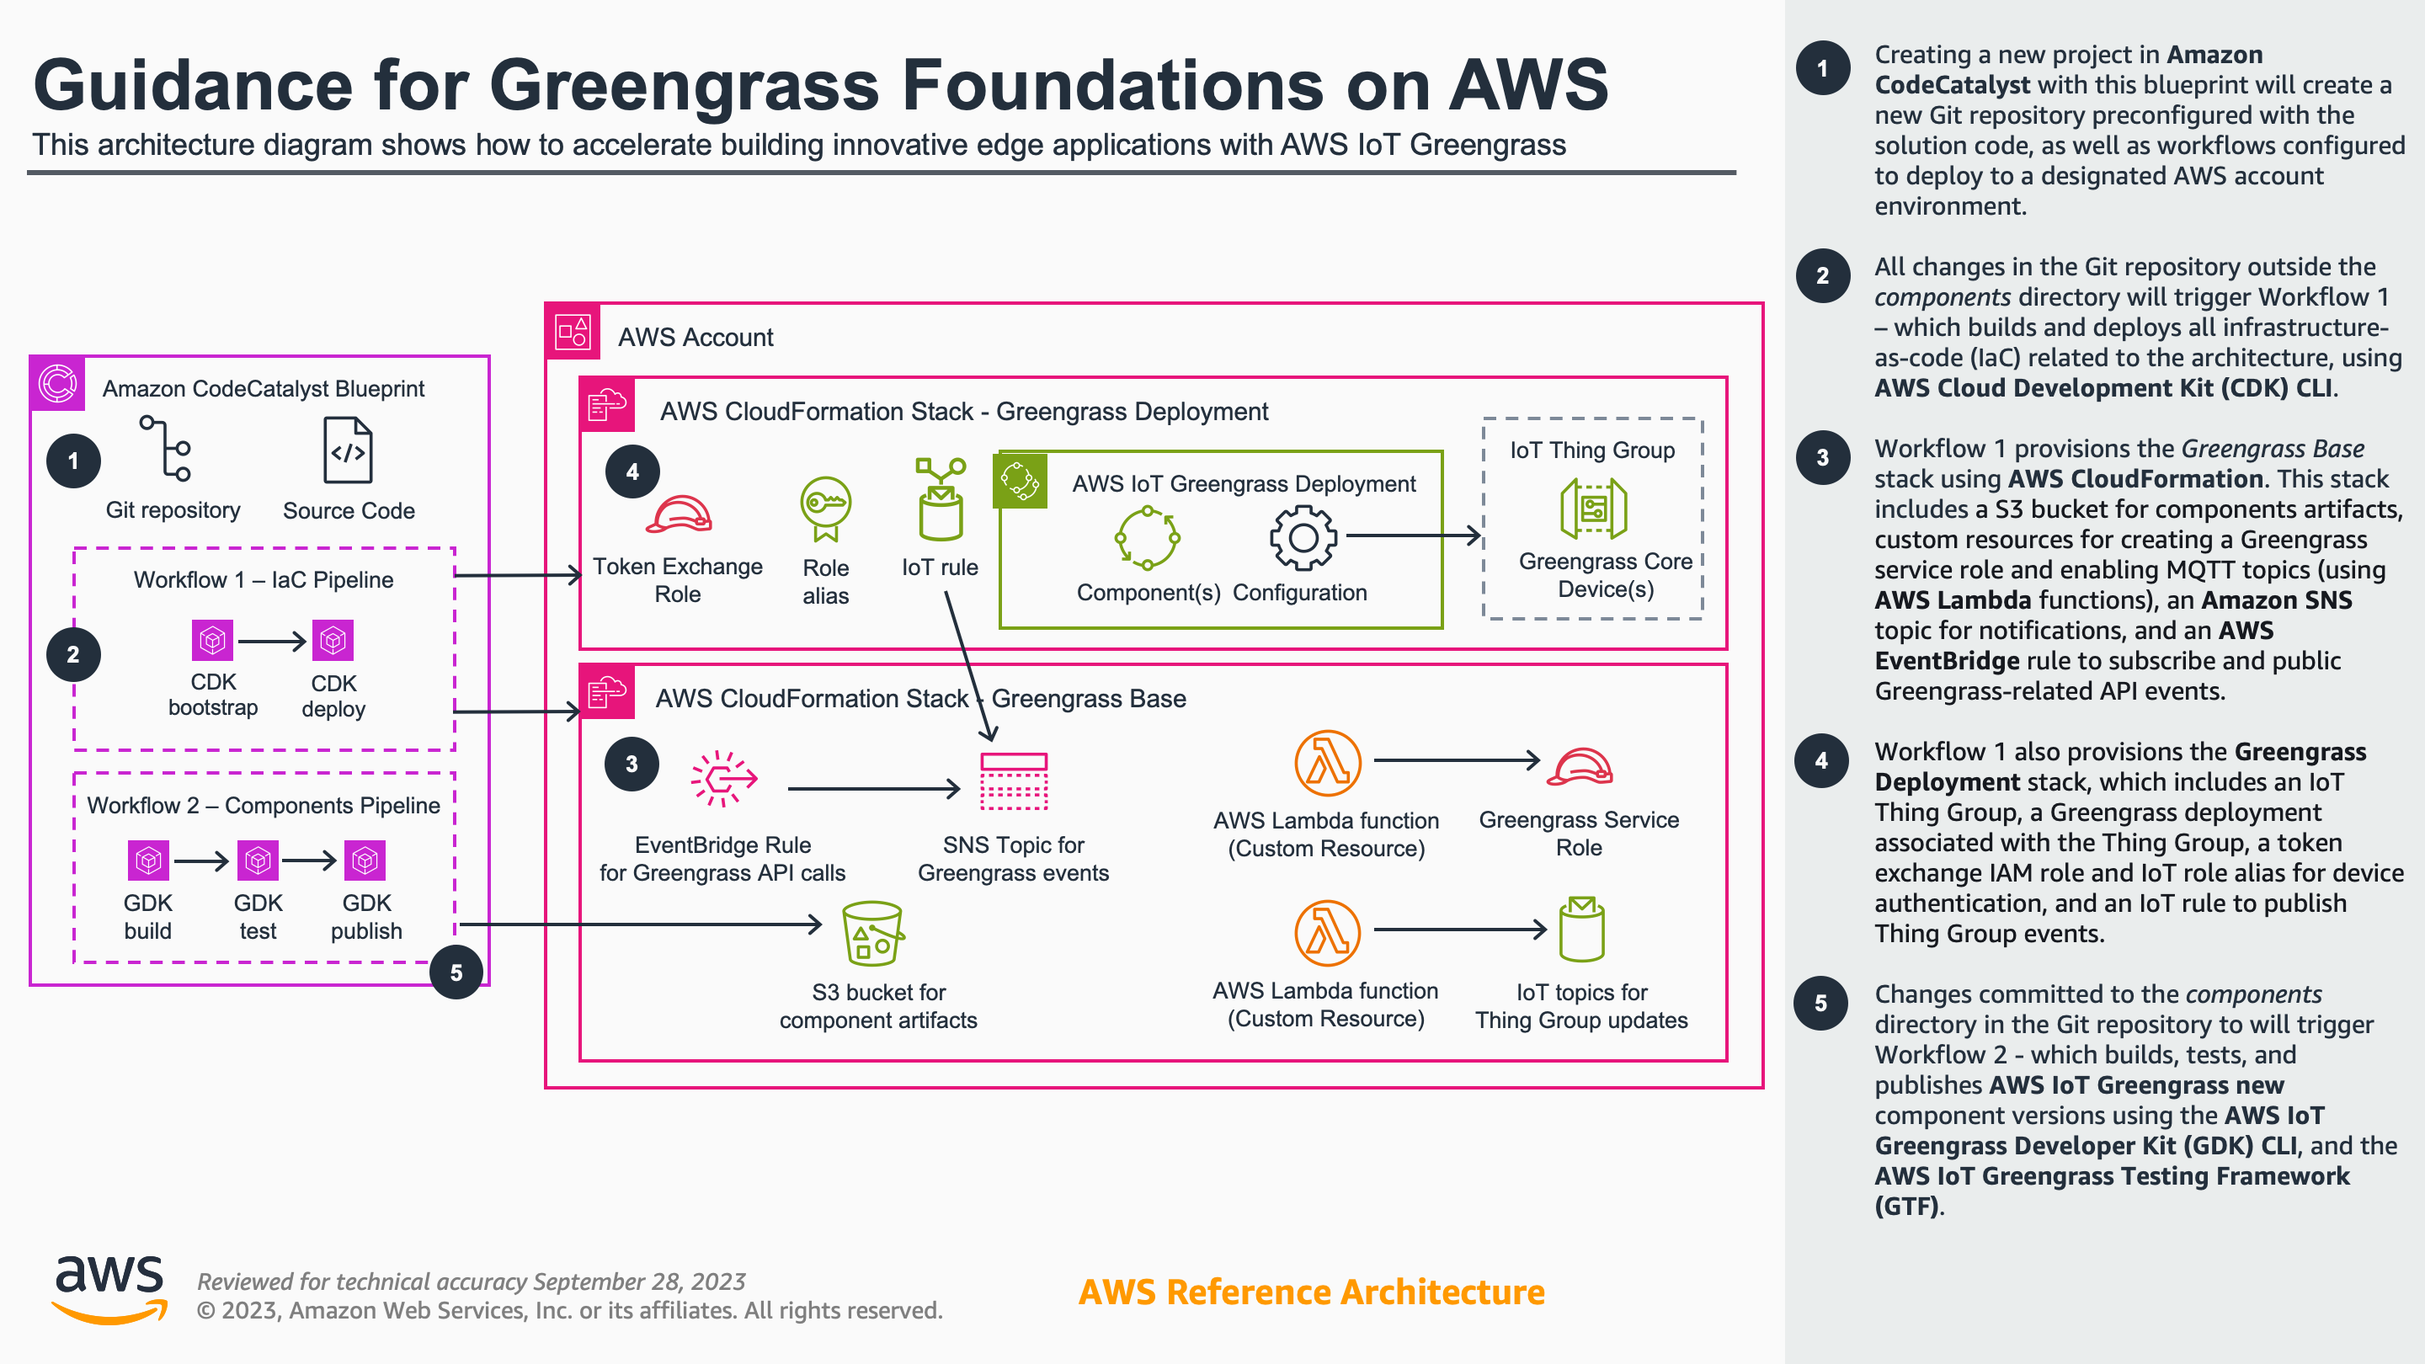
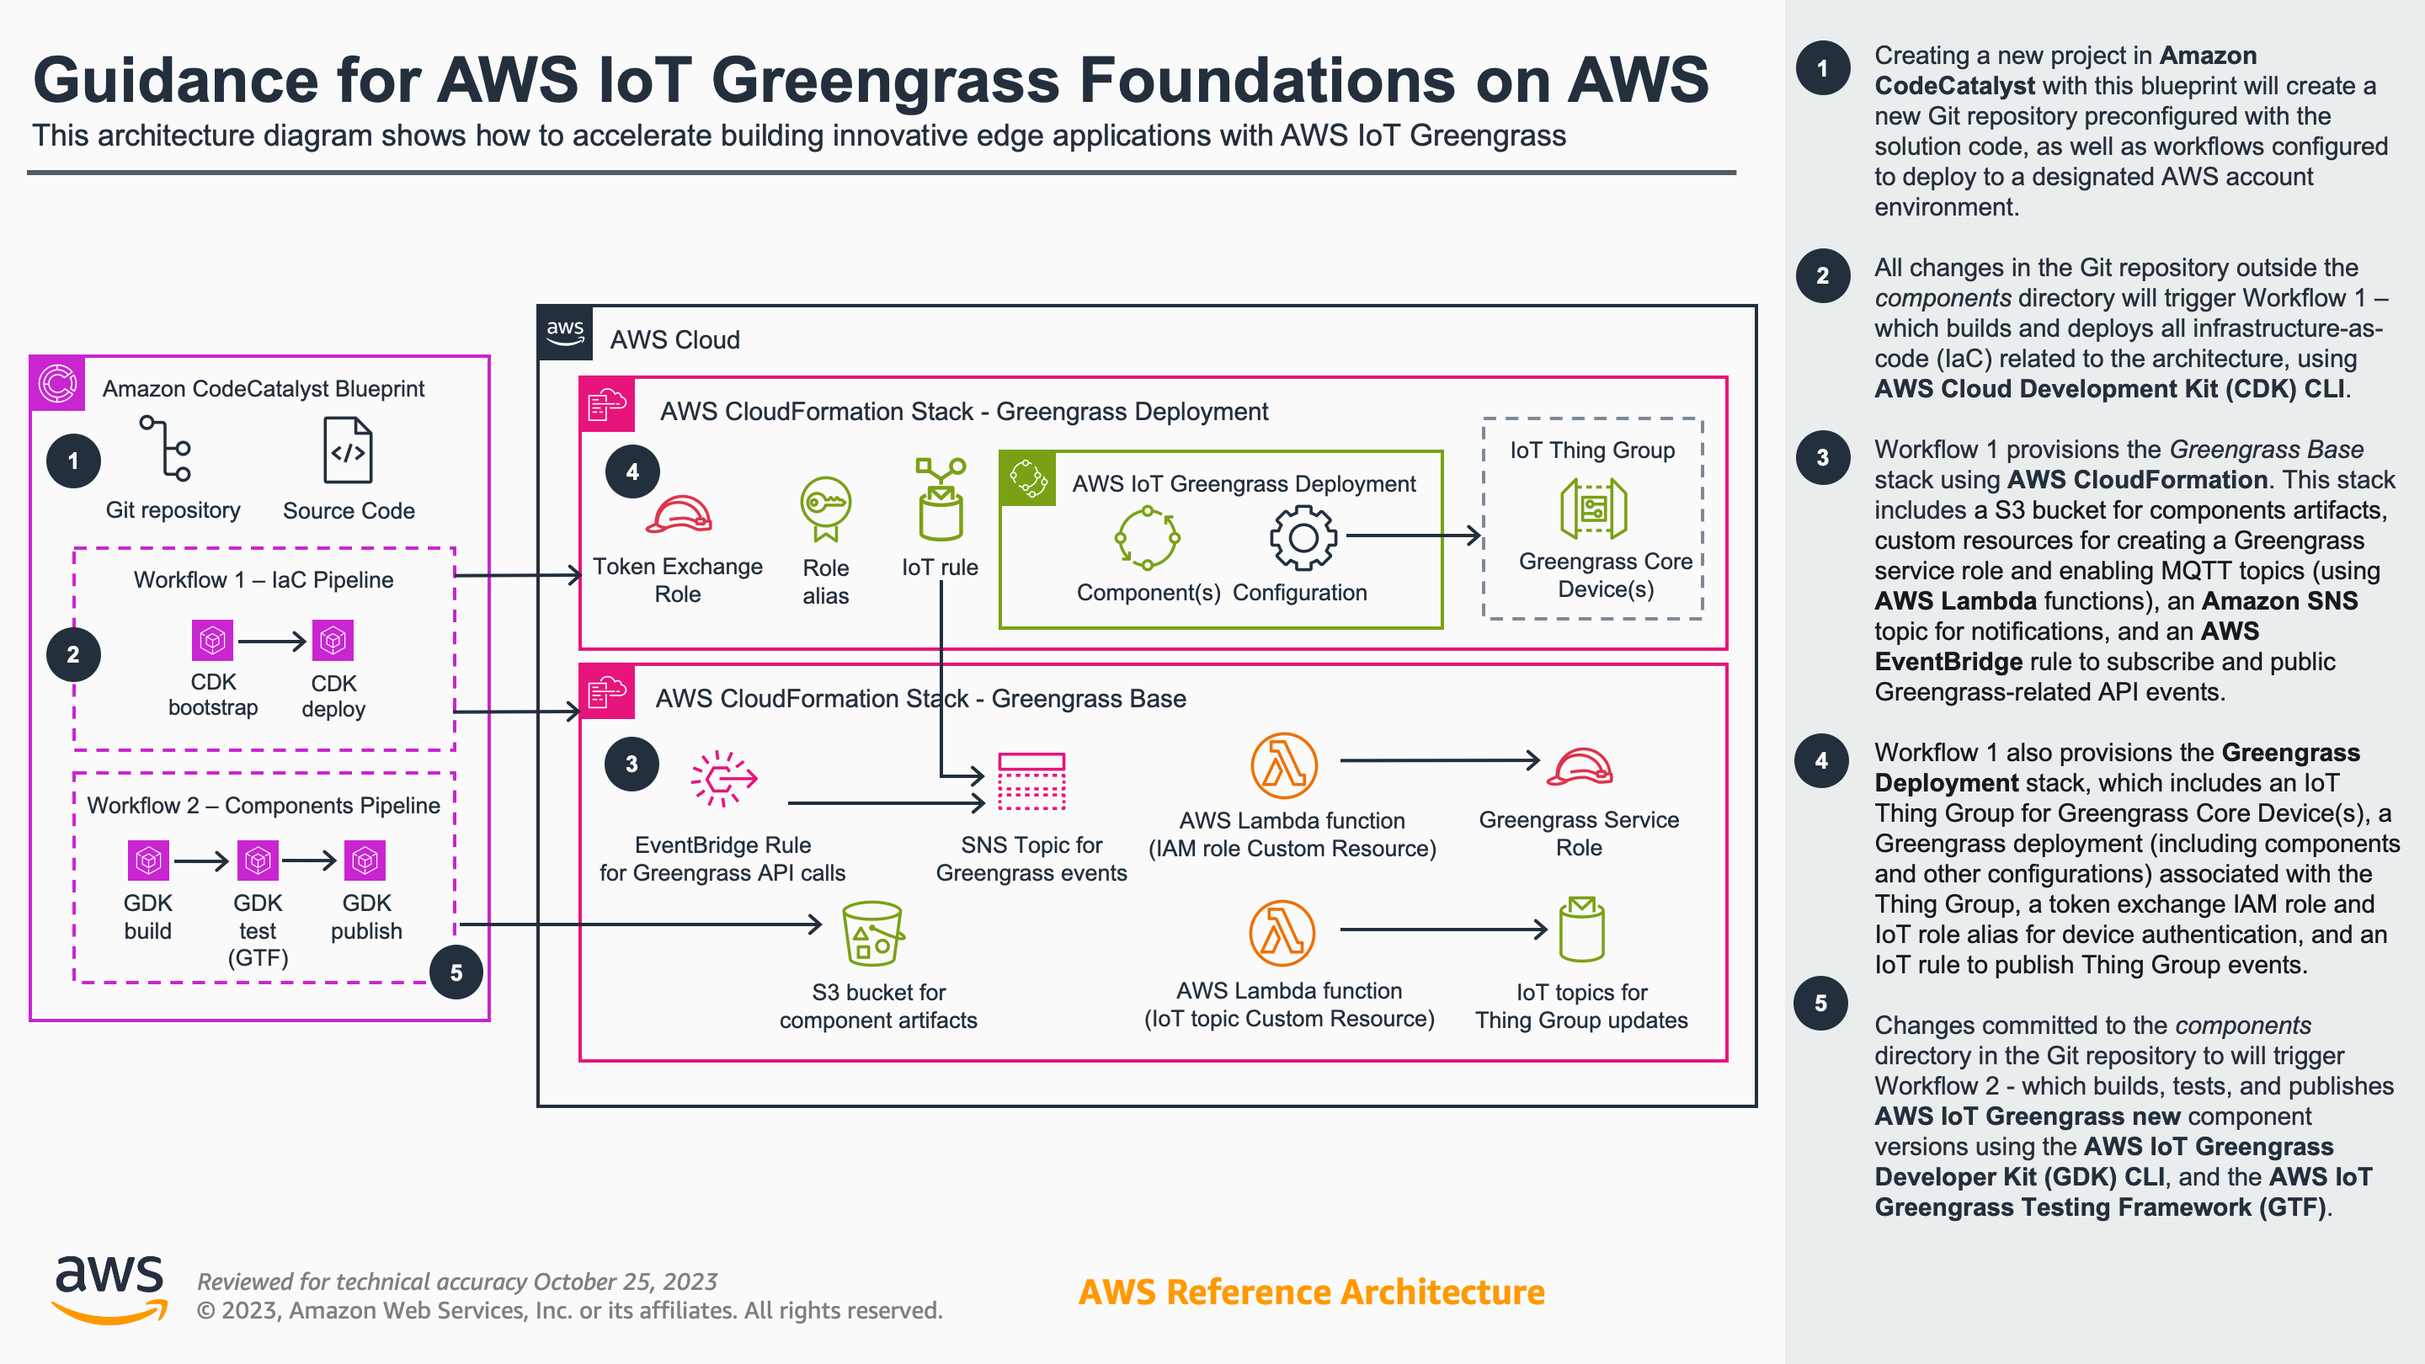
security fixes

diff --git a/source/lib/constructs/greengrass-service-role/greengrass-service-role.ts b/source/lib/constructs/greengrass-service-role/greengrass-service-role.ts
@@ -3,54 +3,121 @@ import { Construct } from 'constructs';
 import * as cr from 'aws-cdk-lib/custom-resources';
 import * as iam from 'aws-cdk-lib/aws-iam';
 import * as lambda from 'aws-cdk-lib/aws-lambda';
-import * as ssm from 'aws-cdk-lib/aws-ssm';
+import { NagSuppressions } from 'cdk-nag';
+import { NodejsFunction } from 'aws-cdk-lib/aws-lambda-nodejs';
+import * as logs from 'aws-cdk-lib/aws-logs';
 
 export interface GreengrassServiceRoleProps {
-
+    region: string;
+    account: string;
+    stackName: string;
 }
 
 export class GreengrassServiceRole extends Construct {
-    constructor(scope: Construct, id: string, props: GreengrassServiceRoleProps = {}) {
+    constructor(scope: Construct, id: string, props: GreengrassServiceRoleProps) {
         super(scope, id);
 
-        const nodeFn = new lambda.Function(this, 'GreengrassServiceRoleFunction', {
-            code: lambda.Code.fromAsset('lib/constructs/greengrass-service-role/lambda/lookup-greengrass-service-role'),
+        const greengrassServiceRoleFunctionRole = new iam.Role(this, "GreengrassServiceRoleFunctionRole", {
+            assumedBy: new iam.ServicePrincipal("lambda.amazonaws.com"),
+            path: "/",
+        });
+
+        const ssm_parameter_name = `/GreengrassFoundations/${props.stackName}/GeneratedServiceRoleArn`;
+
+        const greengrassServiceRoleFunction = new NodejsFunction(this, 'GreengrassServiceRoleFunction', {
+            entry: 'lib/constructs/greengrass-service-role/lambda/lookup-greengrass-service-role/index.ts',
             handler: 'index.handler',
             runtime: lambda.Runtime.NODEJS_18_X,
             timeout: cdk.Duration.seconds(30),
             environment: {
-                'SSM_PARAMETER_NAME': '/Greengrass/Blueprint/GeneratedServiceRoleArn'
-            }
+                'SSM_PARAMETER_NAME': ssm_parameter_name
+            },
+            role: greengrassServiceRoleFunctionRole
         });
 
-        // allow the function to call Greengrass GetServiceRoleForAccount API call
-        nodeFn.addToRolePolicy(new iam.PolicyStatement({
-            actions: [
-                'greengrass:AssociateServiceRoleToAccount',
-                'greengrass:DisassociateServiceRoleFromAccount',
-                'greengrass:GetServiceRoleForAccount',
-                'iam:AttachRolePolicy',
-                'iam:CreateRole',
-                'iam:DeleteRole',
-                'iam:DetachRolePolicy',
-                'iam:ListAttachedRolePolicies',
-                'iam:PassRole',
-                'ssm:DeleteParameter',
-                'ssm:GetParameter',
-                'ssm:PutParameter'
+        const greengrassServiceRoleFunctionLogGroup = new logs.LogGroup(this, 'GreengrassServiceRoleFunctionLogGroup', {
+            logGroupName: `/aws/lambda/${greengrassServiceRoleFunction.functionName}`,
+        });
+
+        const greengrassServiceRoleFunctionRolePolicy = new iam.Policy(this, "GreengrassServiceRoleFunctionRolePolicy", {
+            statements: [
+                new iam.PolicyStatement({
+                    actions: ["logs:CreateLogGroup", "logs:CreateLogStream", "logs:PutLogEvents"],
+                    resources: [
+                        greengrassServiceRoleFunctionLogGroup.logGroupArn
+                    ],
+                }),
+                new iam.PolicyStatement({
+                    actions: [
+                        'greengrass:AssociateServiceRoleToAccount',
+                        'greengrass:DisassociateServiceRoleFromAccount',
+                        'greengrass:GetServiceRoleForAccount',
+                    ],
+                    resources: ['*'],
+                    effect: iam.Effect.ALLOW,
+                }),
+                new iam.PolicyStatement({
+                    actions: [
+                        'iam:PassRole',
+                        'iam:AttachRolePolicy',
+                        'iam:CreateRole',
+                        'iam:DeleteRole',
+                        'iam:DetachRolePolicy',
+                        'iam:ListAttachedRolePolicies',
+                    ],
+                    resources: [`arn:aws:iam::${props.account}:role/GreengrassFoundations_ServiceRole-${props.region}`],
+                    effect: iam.Effect.ALLOW,
+                }),
+                new iam.PolicyStatement({
+                    actions: [
+                        'ssm:DeleteParameter',
+                        'ssm:GetParameter',
+                        'ssm:PutParameter'
+                    ],
+                    resources: [`arn:aws:ssm:${props.region}:${props.account}:parameter${ssm_parameter_name}`],
+                    effect: iam.Effect.ALLOW,
+                })
             ],
-            resources: ['*'],
-            effect: iam.Effect.ALLOW,
-        }));
+        });
+
+        greengrassServiceRoleFunctionRolePolicy.attachToRole(greengrassServiceRoleFunctionRole);
 
         const provider = new cr.Provider(this, 'Provider', {
-            onEventHandler: nodeFn,
+            onEventHandler: greengrassServiceRoleFunction,
         });
 
         const resource = new cdk.CustomResource(this, 'Resource', {
             serviceToken: provider.serviceToken,
             properties: props,
         });
+
+        // Suppress resource based findings automatically added by CDK
+        NagSuppressions.addResourceSuppressions(
+            provider,
+            [
+                {
+                    id: 'AwsSolutions-IAM4',
+                    reason: 'Default role for Custom Resource provider construct',
+                },
+                {
+                    id: 'AwsSolutions-IAM5',
+                    reason: 'Default role for Custom Resource provider construct',
+                }
+            ],
+            true
+        );
+
+        // Suppress resource based findings automatically added by CDK
+        NagSuppressions.addResourceSuppressions(
+            greengrassServiceRoleFunctionRolePolicy,
+            [
+                {
+                    id: 'AwsSolutions-IAM5',
+                    reason: 'For Greengrass service role actions',
+                }
+            ],
+            true
+        );
 
     }
 

diff --git a/source/lib/stacks/greengrass-base-stack.ts b/source/lib/stacks/greengrass-base-stack.ts
@@ -8,6 +8,8 @@ import * as targets from 'aws-cdk-lib/aws-events-targets';
 import * as cr from 'aws-cdk-lib/custom-resources';
 import { readFileSync } from 'fs';
 import * as iam from 'aws-cdk-lib/aws-iam';
+import * as kms from 'aws-cdk-lib/aws-kms';
+import { NagSuppressions } from 'cdk-nag';
 
 export interface GreengrassBaseStackProps extends cdk.NestedStackProps {
     bucketNamePrefix: string;
@@ -22,7 +24,11 @@ export class GreengrassBaseStack extends cdk.NestedStack {
     constructor(scope: Construct, id: string, props: GreengrassBaseStackProps) {
         super(scope, id, props);
 
-        const greengrassServiceRole = new GreengrassServiceRole(this, 'GreengrassServiceRoleConstruct');
+        const greengrassServiceRole = new GreengrassServiceRole(this, 'GreengrassServiceRoleConstruct', {
+            account: this.account,
+            region: this.region,
+            stackName: this.node.tryGetContext("stack_name")
+        });
 
         const removalPolicyString: string = this.node.tryGetContext('bucket_removal_policy');
         let removalPolicy: cdk.RemovalPolicy;
@@ -38,12 +44,55 @@ export class GreengrassBaseStack extends cdk.NestedStack {
 
         this.bucket = new s3.Bucket(this, 'GreengrassBucket', {
             bucketName: `${props.bucketNamePrefix}-${this.account}-${this.region}`,
-            encryption: s3.BucketEncryption.KMS_MANAGED,
             removalPolicy: removalPolicy,
             autoDeleteObjects: autoDeleteObjects,
+            encryption: s3.BucketEncryption.S3_MANAGED,
+            serverAccessLogsPrefix: 's3_server_access_logs/',
+            enforceSSL: true,
+            blockPublicAccess: s3.BlockPublicAccess.BLOCK_ALL
         });
 
-        this.topic = new sns.Topic(this, `GreengrassNotificationsTopic`);
+        const encryptionKeyPolicy = new iam.PolicyDocument({
+            statements: [
+                new iam.PolicyStatement({
+                    actions: ["kms:*"],
+                    resources: ["*"],
+                    effect: iam.Effect.ALLOW,
+                    principals: [
+                        new iam.ArnPrincipal(
+                            `arn:aws:iam::${this.account}:root`
+                        ),
+                    ],
+                }),
+            ],
+        });
+
+        const key = new kms.Key(this, "EncryptionKey", {
+            enabled: true,
+            enableKeyRotation: true,
+            policy: encryptionKeyPolicy,
+        });
+
+        this.topic = new sns.Topic(this, 'GreengrassNotificationsTopic', {
+            displayName: 'Greengrass Alert Topic',
+            masterKey: key
+        });
+
+        const resourcePolicyStatement = new iam.PolicyStatement({
+            principals: [
+                new iam.AnyPrincipal()
+            ],
+            effect: iam.Effect.DENY,
+            actions: ["sns:Publish"],
+            resources: [
+                this.topic.topicArn,
+            ],
+            conditions: {
+                Bool: { "aws:SecureTransport": "false" },
+            },
+        });
+
+        this.topic.addToResourcePolicy(resourcePolicyStatement);
 
         const rule = new events.Rule(this, `GreengrassEventsRule`, {
             eventPattern: {
@@ -86,6 +135,18 @@ export class GreengrassBaseStack extends cdk.NestedStack {
             ])
         });
 
+        // Suppress resource based findings automatically added by CDK
+        NagSuppressions.addResourceSuppressions(
+            [updateEventConfigurationsResource],
+            [
+                {
+                    id: 'AwsSolutions-IAM5',
+                    reason: 'Default permissions for custom resource construct.',
+                }
+            ],
+            true
+        );
+
         this.snsPublishRole = new iam.Role(this, 'SnsPublishRole', {
             assumedBy: new iam.ServicePrincipal('iot.amazonaws.com'),   // required
         });
@@ -95,5 +156,20 @@ export class GreengrassBaseStack extends cdk.NestedStack {
             resources: [this.topic.topicArn],
             actions: ['sns:Publish'],
         }));
+
+        // Suppress resource based findings automatically added by CDK
+        NagSuppressions.addStackSuppressions(
+            this,
+            [
+                {
+                    id: 'AwsSolutions-IAM4',
+                    reason: 'Default permissions for custom resource construct.',
+                    appliesTo: [
+                        'Policy::arn:<AWS::Partition>:iam::aws:policy/service-role/AWSLambdaBasicExecutionRole'
+                    ]
+                }
+            ],
+            true
+        );
     }
 }

diff --git a/source/lib/stacks/greengrass-deployment-stack.ts b/source/lib/stacks/greengrass-deployment-stack.ts
@@ -6,6 +6,7 @@ import * as sns from 'aws-cdk-lib/aws-sns';
 import { readFileSync } from 'fs';
 import * as s3 from 'aws-cdk-lib/aws-s3';
 import * as iam from 'aws-cdk-lib/aws-iam';
+import { NagSuppressions } from 'cdk-nag';
 
 
 export interface GreengrassDeploymentStackProps extends cdk.NestedStackProps {
@@ -86,6 +87,18 @@ export class GreengrassDeploymentStack extends cdk.NestedStack {
             ],
         }));
 
+        // Suppress resource based findings automatically added by CDK
+        NagSuppressions.addResourceSuppressions(
+            [tokenExchangeRole],
+            [
+                {
+                    id: 'AwsSolutions-IAM5',
+                    reason: 'Permissive actions allowed for Greengrass token exchange role.',
+                }
+            ],
+            true
+        );
+
         const cfnRoleAlias = new iot.CfnRoleAlias(this, `${thingGroupName}-GreengrassV2TokenExchangeRoleAlias`, {
             roleArn: tokenExchangeRole.roleArn,
             credentialDurationSeconds: 3600,
@@ -116,6 +129,5 @@ export class GreengrassDeploymentStack extends cdk.NestedStack {
         new cdk.CfnOutput(this, 'thing-policy-name', { value: policy.policyName || '' });
         new cdk.CfnOutput(this, 'tes-role-name', { value: tokenExchangeRole.roleName });
         new cdk.CfnOutput(this, 'tes-role-alias-name', { value: cfnRoleAlias.roleAlias || '' });
-
     }
 }

diff --git a/source/bin/greengrass-cdk.ts b/source/bin/greengrass-cdk.ts
@@ -2,14 +2,15 @@
 import 'source-map-support/register';
 import * as cdk from 'aws-cdk-lib';
 import { GreengrassCdkStack } from '../lib/greengrass-cdk-stack';
+import { AwsSolutionsChecks } from 'cdk-nag'
 
-(() => {
-  const app = new cdk.App();
+const app = new cdk.App();
 
-  new GreengrassCdkStack(app, app.node.tryGetContext("stack_name"), {
-    env: { account: process.env.CDK_DEFAULT_ACCOUNT, region: process.env.CDK_DEFAULT_REGION },
-    bucketNamePrefix: app.node.tryGetContext("bucket_name_prefix")
-  });
+// Add the cdk-nag AwsSolutions Pack with extra verbose logging enabled.
+cdk.Aspects.of(app).add(new AwsSolutionsChecks({ verbose: true }))
 
-  app.synth();
-})();
+new GreengrassCdkStack(app, app.node.tryGetContext("stack_name"), {
+  env: { account: process.env.CDK_DEFAULT_ACCOUNT, region: process.env.CDK_DEFAULT_REGION },
+  /* For more information, see https://docs.aws.amazon.com/cdk/latest/guide/environments.html */
+  bucketNamePrefix: app.node.tryGetContext("bucket_name_prefix")
+});

diff --git a/source/lib/constructs/greengrass-service-role/lambda/lookup-greengrass-service-role/index.ts b/source/lib/constructs/greengrass-service-role/lambda/lookup-greengrass-service-role/index.ts
@@ -43,7 +43,7 @@ async function generateGreengrassServiceRole(ggv2: GreengrassV2, iam: IAM, ssm: 
         let roleInput: CreateRoleCommandInput;
 
         roleInput = {
-            RoleName: `Greengrass_ServiceRole${Date.now()}`,
+            RoleName: `GreengrassFoundations_ServiceRole-${region}`,
             AssumeRolePolicyDocument: JSON.stringify({
                 Version: "2012-10-17",
                 Statement: [
@@ -132,7 +132,9 @@ async function deleteGreengrassServiceRole(ggv2: GreengrassV2, iam: IAM, ssm: SS
 
             });
         });
-    });
+    }).catch(async (err) => {
+        console.log(err);
+    });;
 
 };
 
